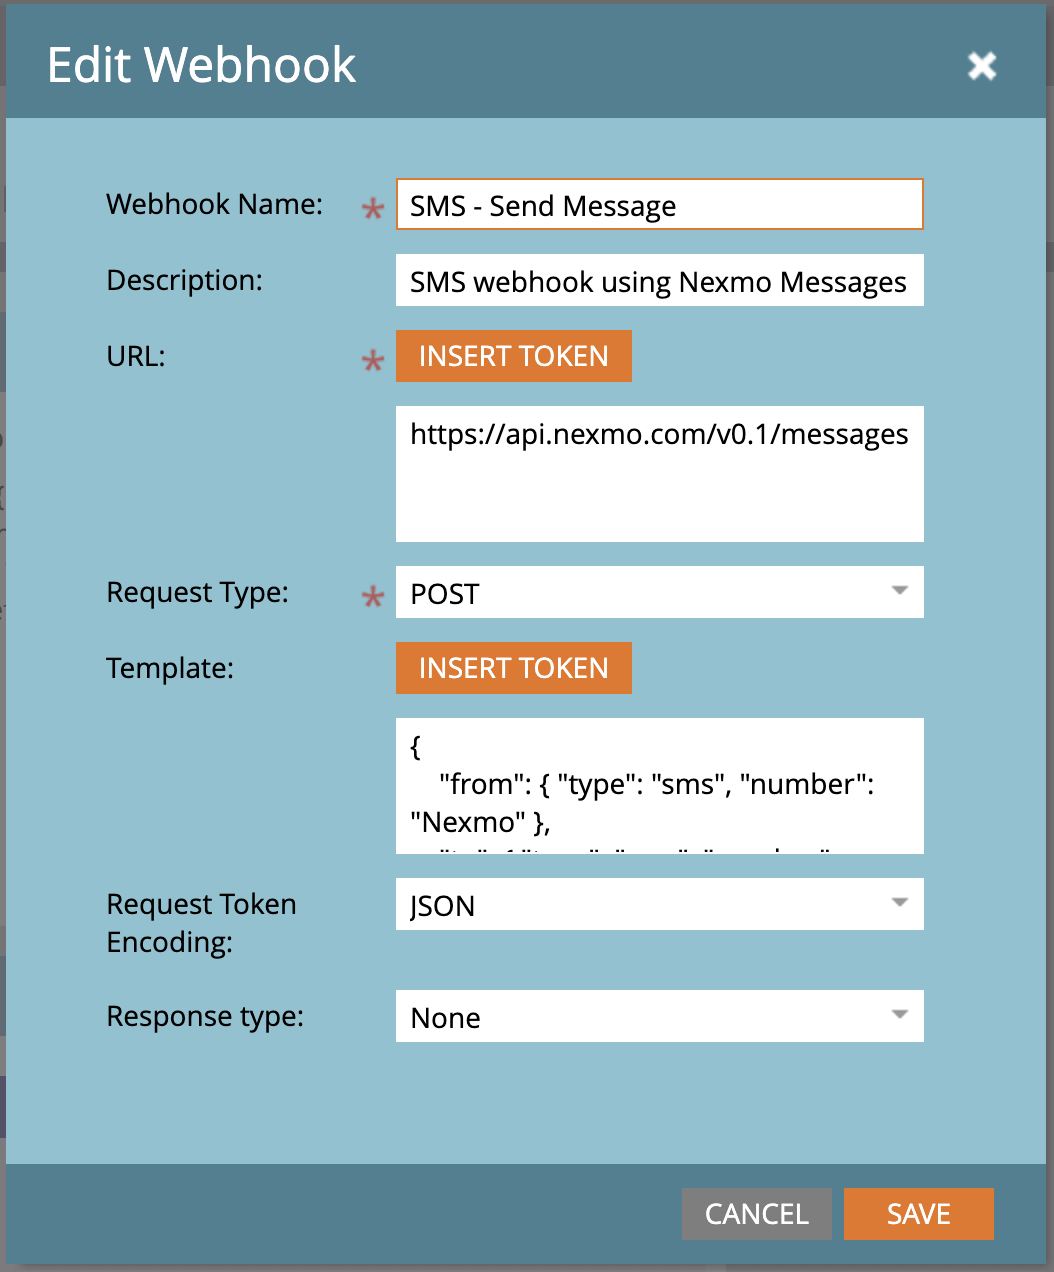
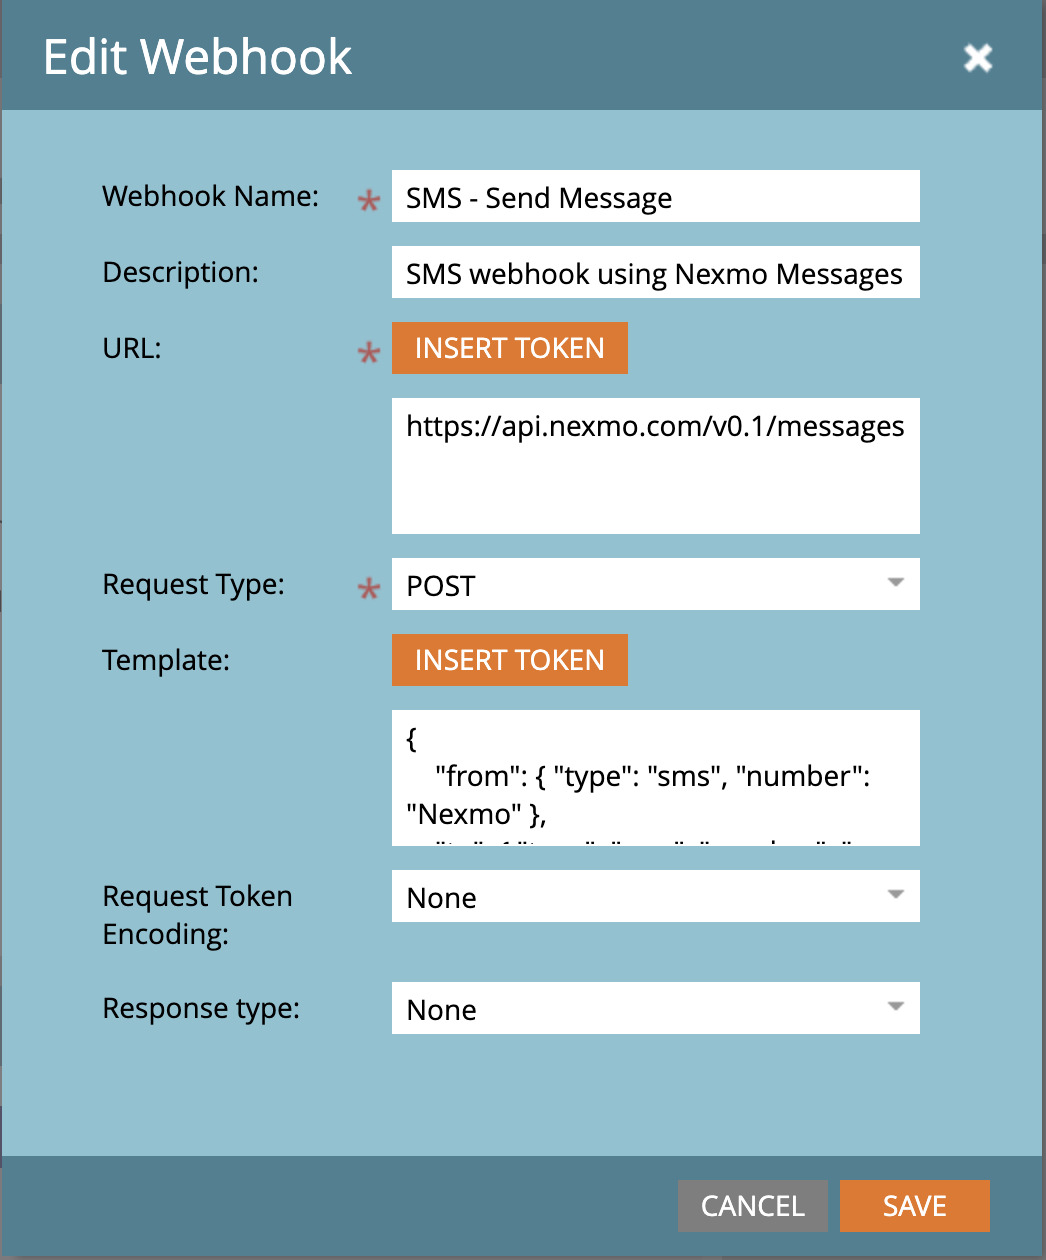
Fixed README

diff --git a/README.md b/README.md
@@ -1,9 +1,10 @@
 # marketo-webhook-integration
 
-### WhatsApp
+## WhatsApp
 
 The following document is a guide for building and testing a Marketo Webhook that will send
 messages via Whatsapp using Nexmo Messages API.
+
 
 ### Building the Webhook in Marketo
 
@@ -27,17 +28,17 @@ Put the following parameters:
 
 - URL: `https://sandbox.nexmodemo.com/v0.1/messages/`
 - Request Type: `POST`
-- Example body: be sure to replace `to` field with your phone number
+- Example body: be sure to replace `to` field with your phone number. Use a **WhatsApp Template** for the first message to your customer, otherwise the message will be refused by Whatsapp. For details, [Nexmo Messages WA - Concepts](https://developer.nexmo.com/messages/concepts/whatsapp).
 
 ```json
 {
-	"to": {"type": "whatsapp", "number": "3912345678"},
-	"from": {"type": "whatsapp", "number": "from_number"},
+	"to": {"type": "whatsapp", "number": "{{lead.Phone Number:default=edit me}}"},
+	"from": {"type": "whatsapp", "number": "447418342149"},
 	"message": {"content": {"type": "template", "template":{
             "name":"whatsapp:hsm:technology:nexmo:simplewelcome",
             "parameters":[
                {
-                  "default":"Nexmo"
+                  "default":"Nexmo {{lead.First Name:default=Jon Doe}}"
                },
                {
                   "default":"interact with us over whatsapp. The campaignID is {{campaign.id:default=Campaign Id}}"
@@ -47,20 +48,19 @@ Put the following parameters:
 }
 
 ```
-- Request Token Encoding: JSON
+- Request Token Encoding: None
 
-![Webhook console](img/edit_webhook.png)
+![Webhook console](img/edit_webhook_wa.png)
 
 **Note**: Using the `INSERT TOKEN` button you can also use tokens in the messages body sent via Whatsapp. In the example above, I used campaign id in the message body.
 
 Lastly, select `Webhooks Actions` --> `Set Custom Header` and put `Authorization`: `Bearer {JWT}`, with JWT value. For example, `Authorization: Bearer asd12456789`.
 
 
-
 Great! Now we need to test the Webhook in Marketo.
 
 
-### SMS
+## SMS
 
 The following document is a guide for building and testing a Marketo Webhook that will send
 messages via SMS using Nexmo Messages API.
@@ -70,6 +70,7 @@ messages via SMS using Nexmo Messages API.
 ##### Step 1
 
 Log in to Marketo and navigate to Admin --> My Account
+
 ![Admin console](img/admin_console.png)
 
 ##### Step 2
@@ -87,22 +88,20 @@ Put the following parameters:
 
 - URL: `https://api.nexmo.com/v0.1/messages`
 - Request Type: `POST`
-- Example body: be sure to replace `to` field with your phone number
-
+- Example body: be sure to replace `to` field with your phone number. 
 ```json
 {
     "from": { "type": "sms", "number": "Nexmo" },
-    "to": { "type": "sms", "number": "4400000000" },
+    "to": { "type": "sms", "number": "{{lead.Phone Number:default=edit me}}" },
     "message": {
       "content": {
         "type": "text",
-        "text": "Hello from Nexmo. The campaignID is {{campaign.id:default=Campaign Id}}"
+        "text": "Hello {{lead.First Name:default=Jon Doe}} from Nexmo. The campaignID is {{campaign.id:default=Campaign Id}}"
       }
     }
   }
-
 ```
-- Request Token Encoding: JSON
+- Request Token Encoding: None
 
 ![Webhook console](img/edit_webhook_sms.png)
 
